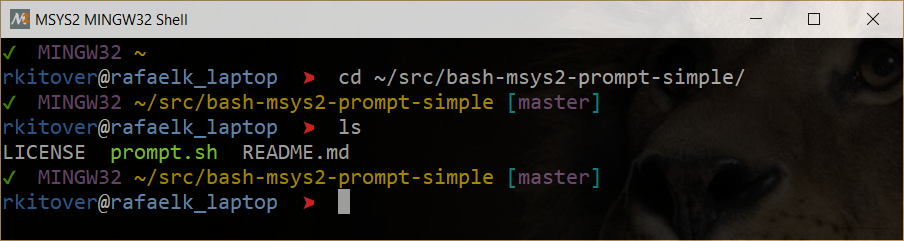
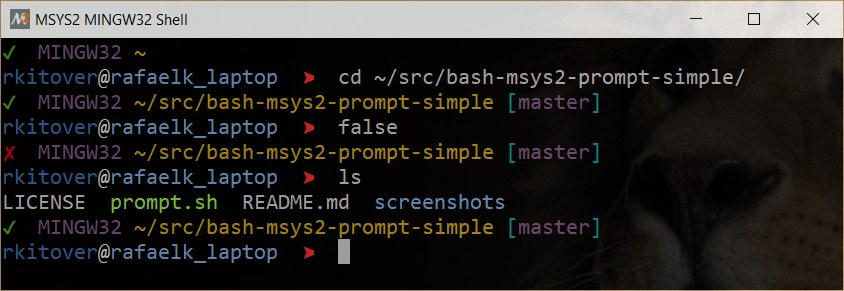
add note about exit status, add it to screenshot
Add a note to README.md that the prompt also shows the exit status and
show the error status in the screenshot.

diff --git a/README.md b/README.md
@@ -5,7 +5,8 @@
 This is a simple, lightweight, and nice looking bash prompt that runs quickly
 even in very slow shells like MSys2 and Cygwin.
 
-It's colorful and shows the git branch when in a git checkout.
+It's colorful and shows the git branch when in a git checkout, as well as the
+last command exit status (checkmark for success and X mark for non-zero error.)
 
 On MSys2 it also shows the current value of `$MSYSTEM`, that is either `MSYS`,
 `MINGW32` or `MINGW64`.
